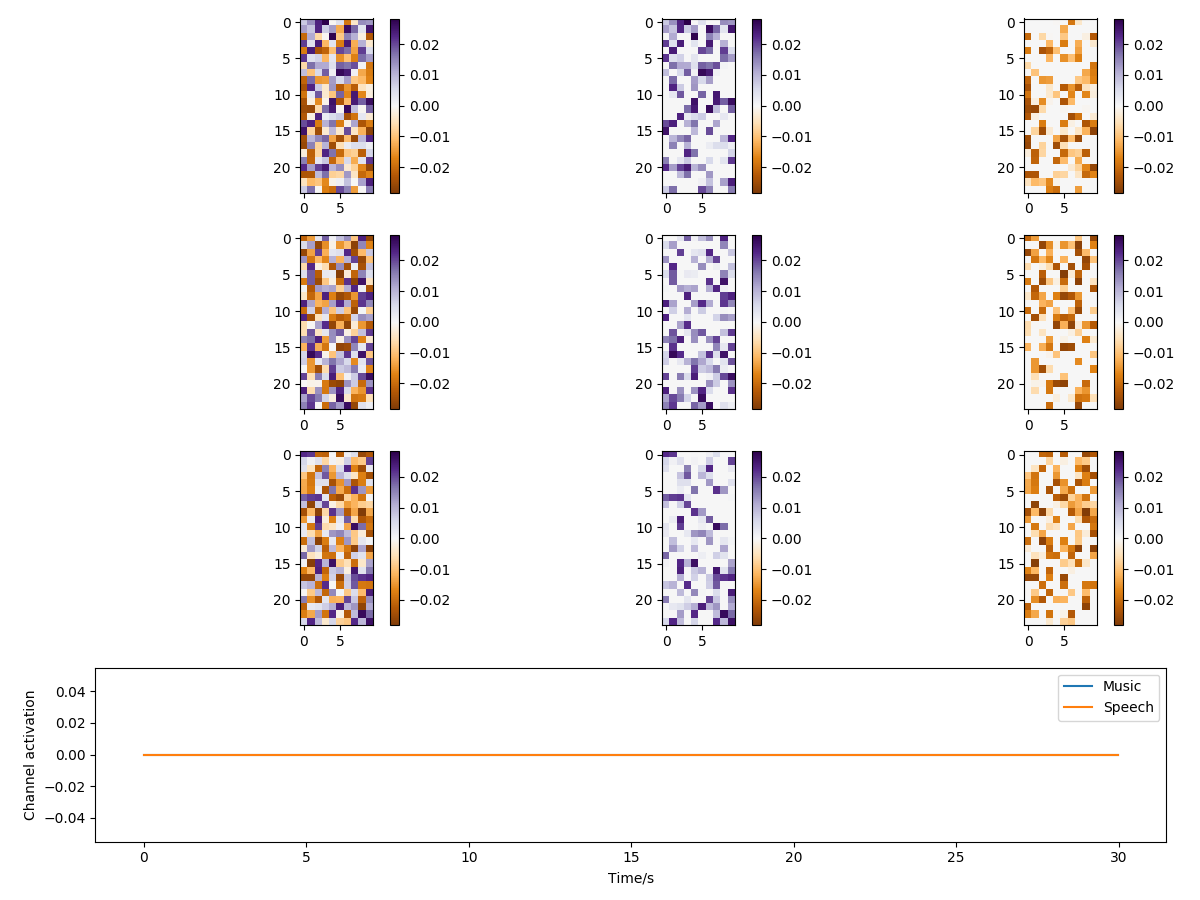
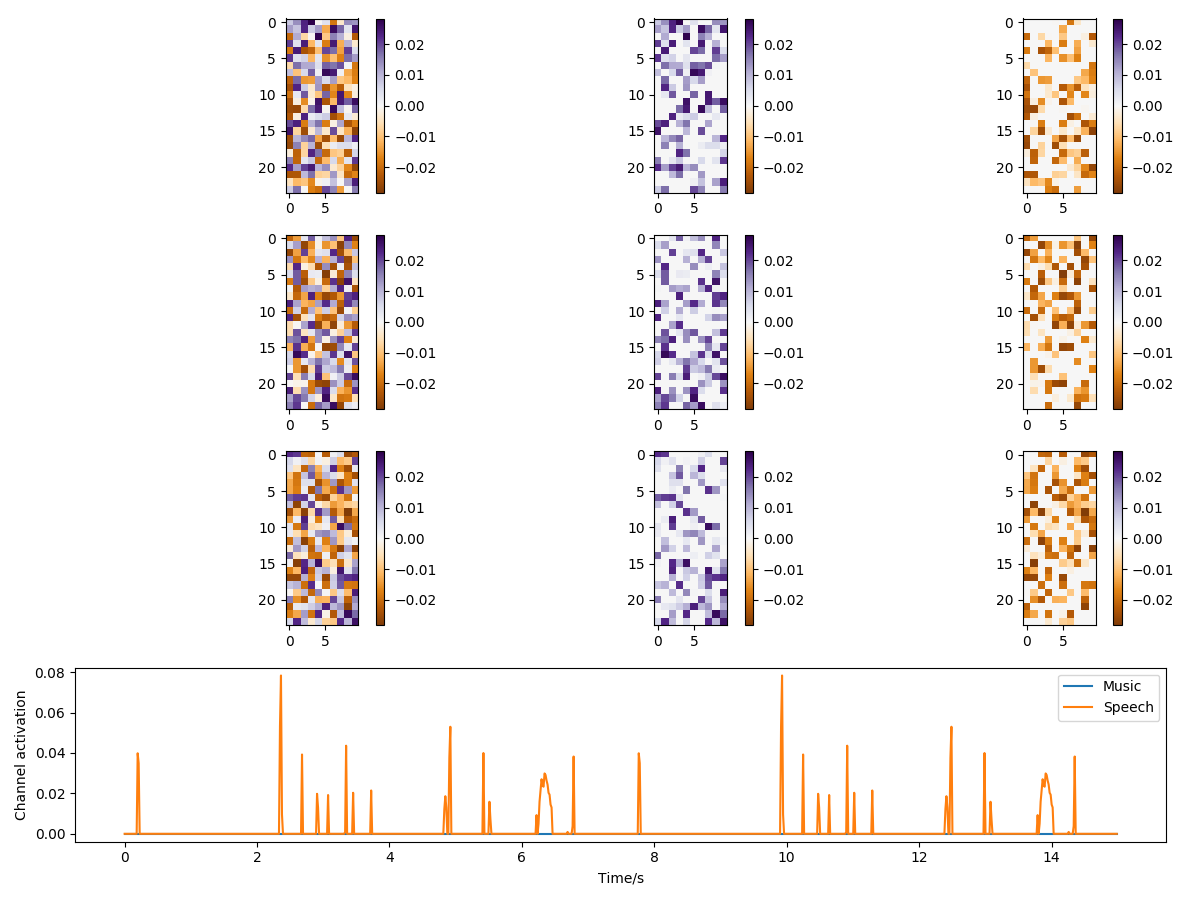
visualizations of channel activities for mir and spectro data

diff --git a/src/cv_experiment.py b/src/cv_experiment.py
@@ -209,6 +209,7 @@ def analyze_error(data, model_name, model, col_test_data):
 def visualize_filter(data, model_name, model, col_test_data, music_sample, speech_sample):
     original_len = music_sample.shape[1]
     target_len = model.input_shape[2]
+    T_ORIGINAL = 30*original_len/target_len
     if original_len < target_len:
         m, s = np.zeros(model.input_shape[1:]), np.zeros(model.input_shape[1:])
         m[:, :original_len] = music_sample
@@ -233,7 +234,7 @@ def visualize_filter(data, model_name, model, col_test_data, music_sample, speec
     music_activation = inspect_model.predict(music_sample)[0, 0]
     speech_activation = inspect_model.predict(speech_sample)[0, 0]
 
-    time = np.arange(0, 30, 30 / music_activation.shape[0])
+    time = np.arange(0, T_ORIGINAL, T_ORIGINAL / music_activation.shape[0])
 
     num_output_channels = W_all.shape[-1]
 
@@ -279,6 +280,91 @@ def visualize_filter(data, model_name, model, col_test_data, music_sample, speec
         plt.savefig("{}/filter-channel-{}.png".format(result_dir, output_channel))
 
 
+def plot_channel_activation(music, speech, export_path, seconds=15):
+    num_channels = speech.shape[-1]
+    time = np.arange(0, seconds, seconds / music.shape[1])
+    os.makedirs(export_path, exist_ok=True)
+
+    for channel in range(num_channels):
+        plt.plot(time, music[0,:, channel], label="Music")
+        plt.plot(time, speech[0,:, channel], label="Speech")
+        plt.xlabel("Time/s")
+        plt.ylabel("Activation")
+        plt.title("Channel {}".format(channel))
+        plt.legend()
+        plt.savefig(export_path+"/channel-{}-sample.png".format(channel))
+        plt.clf()
+
+def plot_channel_activations(all_music, all_speech, export_path, seconds=15):
+    num_channels = all_speech.shape[-1]
+    time = np.arange(0, seconds, seconds / all_music.shape[2])
+    os.makedirs(export_path, exist_ok=True)
+
+    for channel in range(num_channels):
+        label = "Music"
+        for music in all_music:
+            plt.plot(time, music[0,:, channel], color="green", label=label)
+            label=None # do only one music label, not multiples
+        label = "Speech"
+        for speech in all_speech:
+            plt.plot(time, speech[0,:, channel], color="red", label=label)
+            label=None
+        plt.xlabel("Time/s")
+        plt.ylabel("Activation")
+        plt.title("Channel {}".format(channel))
+        plt.legend()
+        plt.savefig(export_path+"/channel-{}-all-samples.png".format(channel))
+        plt.clf()
+
+def plot_channel_activations_mv(all_music, all_speech, export_path, seconds=15):
+    num_channels = all_speech.shape[-1]
+    time = np.arange(0, seconds, seconds / all_music.shape[2])
+    os.makedirs(export_path, exist_ok=True)
+
+    for channel in range(num_channels):
+        music_m = np.mean(all_music[:, 0, :, channel], axis=0)
+        music_v = np.var(all_music[:, 0, :, channel], axis=0)
+        speech_m = np.mean(all_speech[:, 0, :, channel], axis=0)
+        speech_v = np.var(all_speech[:, 0, :, channel], axis=0)
+
+        plt.plot(time, music_m, label="Music", color="green")
+        plt.plot(time, music_m+music_v, "--", color="green")
+        plt.plot(time, music_m-music_v, "--", color="green")
+        plt.plot(time, speech_m, label="Speech", color="red")
+        plt.plot(time, speech_m+speech_v, "--", color="red")
+        plt.plot(time, speech_m-speech_v, "--", color="red")
+
+        plt.xlabel("Time/s")
+        plt.ylabel("Activation")
+        plt.title("Channel {}".format(channel))
+        plt.legend()
+        plt.savefig(export_path+"/channel-{}-mv.png".format(channel))
+        plt.clf()
+
+
+def visualize_channel_activation():
+    MUSIC = 1
+    SPEECH = 0
+
+    for data_name, kwargs in data_path.items():
+
+        if data_name == "columbia-test": continue  # don't use the test set for training
+        for Preprocessor in [RhythmData, MIRData]:
+            prepr_name = Preprocessor.__name__
+            data = Preprocessor(**kwargs)
+
+            col_test_data = Preprocessor(**data_path["columbia-test"])
+
+            music = col_test_data.X[col_test_data.Y == MUSIC]
+            speech = col_test_data.X[col_test_data.Y != MUSIC]
+            music_sample = random.choice(music)
+            speech_sample = random.choice(speech)
+
+            plot_channel_activation(music_sample, speech_sample, "../results/{}".format(prepr_name))
+            plot_channel_activations(music, speech, "../results/{}".format(prepr_name))
+            plot_channel_activations_mv(music, speech, "../results/{}".format(prepr_name))
+
+
 def analyze_trained_models():
     MUSIC = 1
     SPEECH = 0
@@ -292,13 +378,14 @@ def analyze_trained_models():
 
             col_test_data = Preprocessor(**data_path["columbia-test"])
 
+            music_sample    = random.choice(col_test_data.X[col_test_data.Y == MUSIC])
+            speech_sample   = random.choice(col_test_data.X[col_test_data.Y != MUSIC])
+
             print("Col test data \nX: {}, Y: {}".format(col_test_data.X.shape, col_test_data.Y.shape))
 
 
             for model_name in model_names:
                 print("\n\n-------\nAnalyze {} on {} - {}".format(model_name, data_name, prepr_name))
-                music_sample    = random.choice(col_test_data.X[col_test_data.Y == MUSIC])
-                speech_sample   = random.choice(col_test_data.X[col_test_data.Y != MUSIC])
 
                 print("music sample: ", music_sample.shape)
 
@@ -360,7 +447,8 @@ def run_on_all(experiment):
 
 
 if __name__ == "__main__":
-    analyze_trained_models()
+    visualize_channel_activation()
+    #analyze_trained_models()
     exit()
 
     if not os.path.exists('results'):
